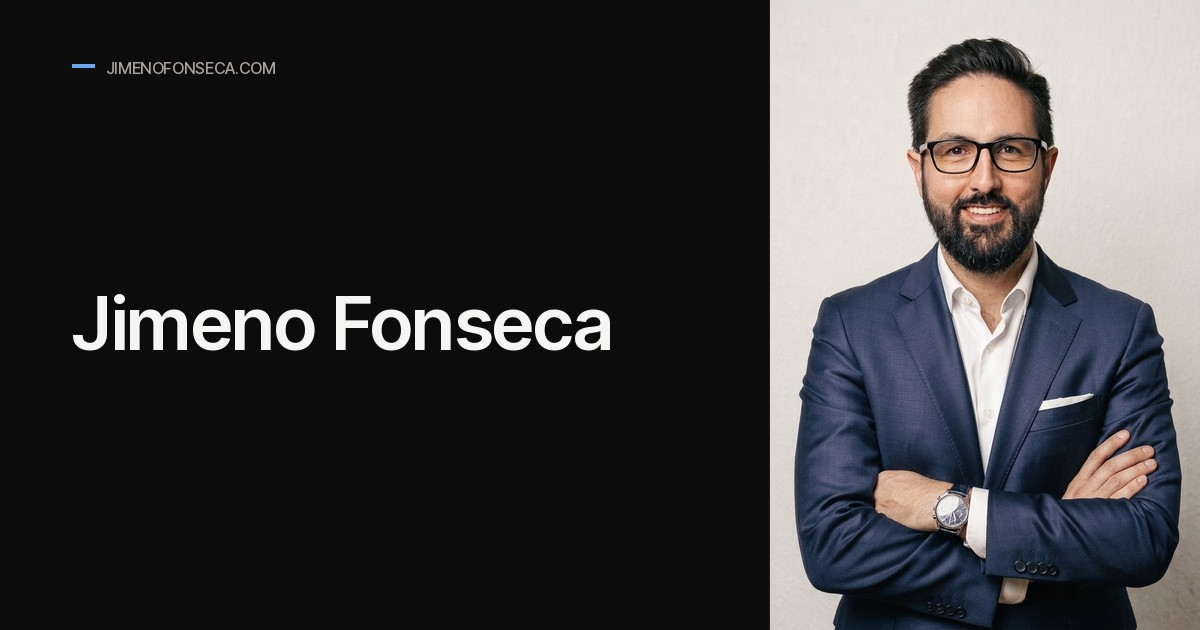
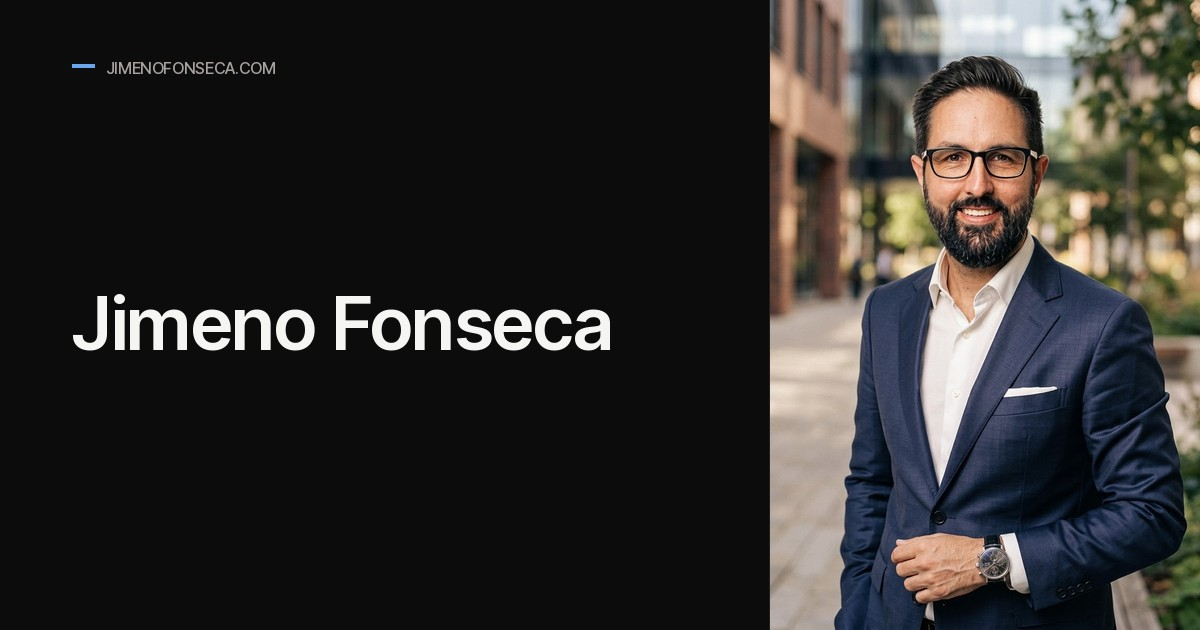
Swap in the outdoor portrait
assets/IMG_5914.JPG (896x1200, 141 KB) copied byte-for-byte to
assets/portrait.jpg; the upload is removed. No re-encode again: Pillow needs
q=82 to land at 144 KB, above the source's 141 KB, so the file is already
better compressed than a round trip would leave it.

Same pixel dimensions as the photo it replaces, so width="896" height="1200"
is unchanged and there is no CLS risk. The src goes ?v=2 -> ?v=3, since the
URL is otherwise identical and Pages' 10-minute max-age would keep serving
the studio shot to anyone who had just visited.

Share card regenerated in the same commit, per the rule that cost us last
time: appendix-og-image.py crops the portrait, so it stales the moment the
portrait changes. Checked the 430px centre crop — the face lands well and
nothing is cut. 83 KB.

Verified in a headless browser: the hero serves ?v=3, natural 896x1200 into
the 440x587 box, and the grayscale(0.15) brightness(0.92) filter mutes the
outdoor greenery so it does not fight the dark page.

Also corrected a number the file had just made stale: the srcset note still
said the portrait was 901px wide.

Claude-Session: https://claude.ai/code/session_01SpdbfRoFkKP2eYAAh2r86V

Changed region(s): [[0.6167, 0.0, 1.0, 1.0]]

diff --git a/de/index.html b/de/index.html
@@ -138,7 +138,7 @@
           </div>
         </div>
         <figure class="hero-figure">
-          <img src="/assets/portrait.jpg?v=2" alt="Jimeno Fonseca, portrait."
+          <img src="/assets/portrait.jpg?v=3" alt="Jimeno Fonseca, portrait."
                width="896" height="1200" loading="eager" fetchpriority="high" decoding="async" />
         </figure>
       </section>

diff --git a/index.html b/index.html
@@ -138,7 +138,7 @@
           </div>
         </div>
         <figure class="hero-figure">
-          <img src="/assets/portrait.jpg?v=2" alt="Jimeno Fonseca, portrait."
+          <img src="/assets/portrait.jpg?v=3" alt="Jimeno Fonseca, portrait."
                width="896" height="1200" loading="eager" fetchpriority="high" decoding="async" />
         </figure>
       </section>

diff --git a/CLAUDE.md b/CLAUDE.md
@@ -560,8 +560,9 @@ Still open, needing macOS `sips`: `/art/`'s gallery thumbnails are ~4x
 oversized (~1.3 MB across 12 files).
 
 The portrait's oversizing resolved itself when `--portrait-w` went to 440px:
-a 440px CSS box is 880 device px on a 2x display, and the file is 901px wide,
-so it is now about right and no longer wants a `srcset`.
+a 440px CSS box is 880 device px on a 2x display and the file is 896px wide,
+so it is now about right and no longer wants a `srcset`. **Keep replacements
+near 896x1200** to hold that.
 
 ⚠ **`style.css` keeps many dead rules** after the reduction — `.principle*`,
 `.proof*`, `.outcome*`, `.cs-*`, `.page-nav`, `.page-stats`, `.page-actions`,
